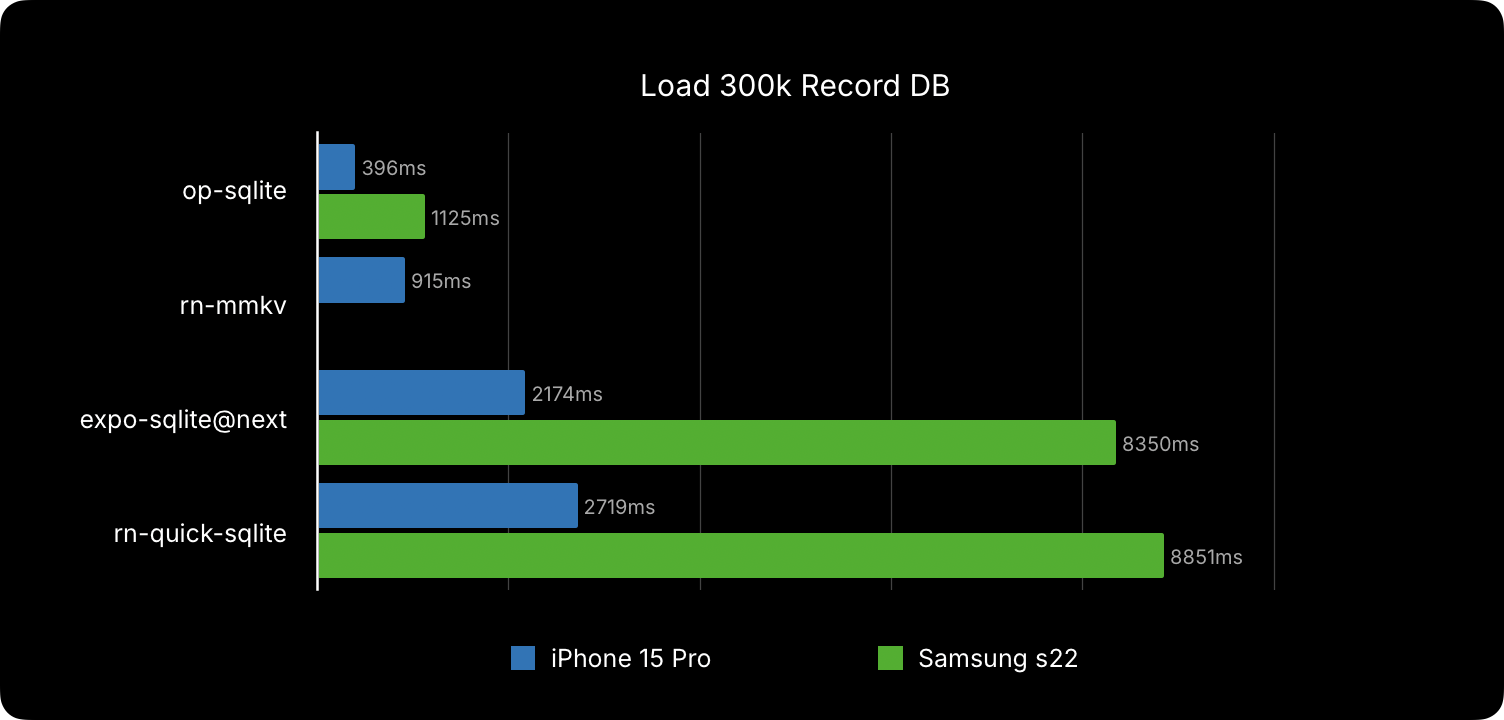
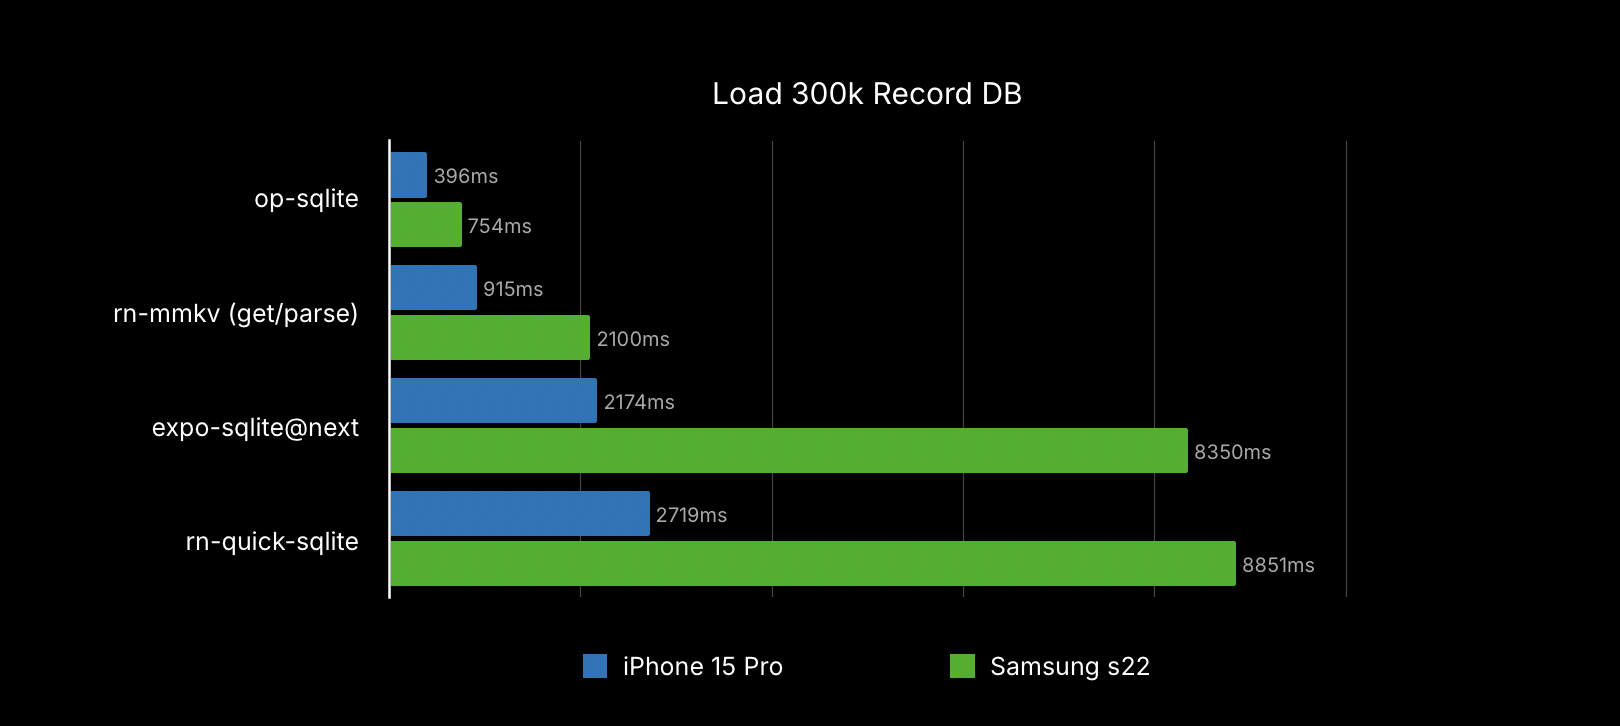
Readme

diff --git a/example/src/Database.ts b/example/src/Database.ts
@@ -1,9 +1,9 @@
 import performance from 'react-native-performance';
 import Chance from 'chance';
 import {open} from '@op-engineering/op-sqlite';
-// import {MMKV} from 'react-native-mmkv';
-// const mmkv = new MMKV();
-// import { Buffer } from 'buffer';
+import {MMKV} from 'react-native-mmkv';
+const mmkv = new MMKV();
+import {Buffer} from 'buffer';
 
 const chance = new Chance();
 
@@ -84,16 +84,16 @@ export async function queryLargeDB() {
     let end = performance.now();
     times.loadFromDb.push(end - start);
 
-    // mmkv.set('largeDB', JSON.stringify(results));
-    // // @ts-ignore
-    // global.gc();
+    mmkv.set('largeDB', JSON.stringify(results));
+    // @ts-ignore
+    global.gc();
 
-    // start = performance.now();
-    // let rawStr = await mmkv.getString('largeDB');
-    // JSON.parse(rawStr!);
-    // end = performance.now();
+    start = performance.now();
+    let rawStr = await mmkv.getString('largeDB');
+    JSON.parse(rawStr!);
+    end = performance.now();
 
-    // console.log('MMKV time', (end - start).toFixed(2));
+    console.log('MMKV time', (end - start).toFixed(2));
 
     // @ts-ignore
     // global.gc();
